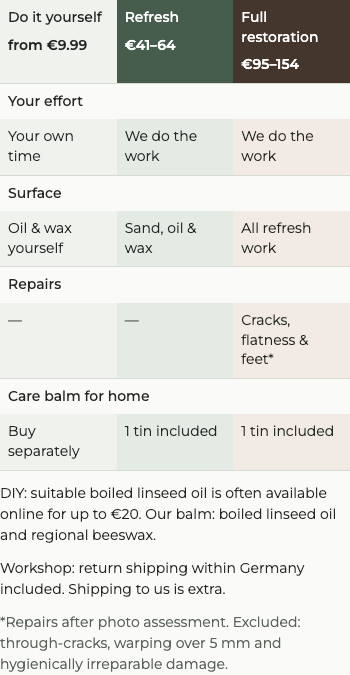
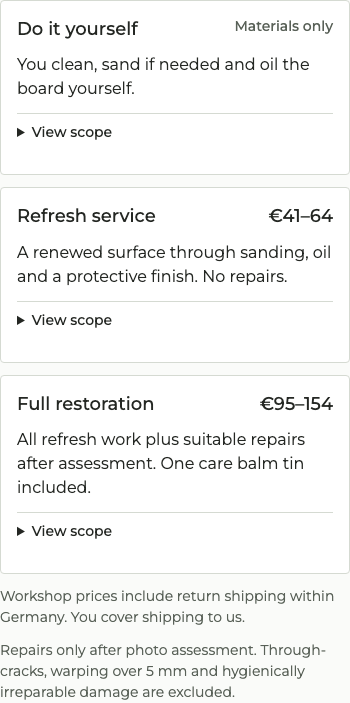
fix: replace service matrix with concise expandable package cards

diff --git a/assets/css/design-system.css b/assets/css/design-system.css
@@ -3,7 +3,7 @@
   @font-face{font-family:EH Sans;src:url('/assets/fonts/design/montserrat-latin.woff2') format('woff2');font-style:normal;font-weight:100 900;font-display:swap}
   :root{
     --font-sans:'EH Sans',Arial,sans-serif;--font-display:var(--font-sans);--font-mono:ui-monospace,monospace;
-    --color-bg:#fafbf9;--color-bg-soft:#f0f2ee;--color-surface:#fff;--color-text:#242723;--color-text-muted:#596158;--color-line:#d5dad2;--color-accent:#44352d;--color-accent-hover:#302620;--color-sage:#465c4c;--color-service-refresh:#e3ebe4;--color-service-full:#f2eae4;
+    --color-bg:#fafbf9;--color-bg-soft:#f0f2ee;--color-surface:#fff;--color-text:#242723;--color-text-muted:#596158;--color-line:#d5dad2;--color-accent:#44352d;--color-accent-hover:#302620;--color-sage:#465c4c;
     --space-1:4px;--space-2:8px;--space-3:12px;--space-4:16px;--space-5:24px;--space-6:32px;--space-7:48px;--space-8:64px;--space-9:96px;--space-10:128px;
     --container-wide:1440px;--container-content:1240px;--container-reading:760px;--gutter:48px;
     --text-meta:14px;--text-body:17px;--text-lead:19px;--text-h1:48px;--text-product-title:38px;--text-h2:32px;--text-h3:22px;
@@ -119,19 +119,20 @@
   .ds-site .consentMedia__placeholder{color:var(--color-text)}
   .ds-site .customProjects button{font-size:var(--text-meta)}
   .ds-site :is(.refurbHero__grid,.refurbStep--media):has([data-ds-duplicate-media]){grid-template-columns:1fr}
-  .ds-site .serviceCompare{margin-block:var(--space-5);max-width:var(--container-reading)}
-  .ds-site .serviceCompare table{display:table;table-layout:fixed;width:100%;overflow:visible;border-collapse:collapse}
-  .ds-site .serviceCompare :is(th,td){width:33.333%;padding:var(--space-2);font-size:var(--text-meta);line-height:1.4;text-align:left;vertical-align:top;overflow-wrap:normal;border-bottom:var(--border);color:var(--color-text)}
-  .ds-site .serviceCompare th[scope=rowgroup]{width:auto;background:transparent;font-weight:500;padding:var(--space-2);border-bottom:0}
-  .ds-site .serviceCompare .serviceCompare__self{background:var(--color-bg-soft)}
-  .ds-site .serviceCompare .serviceCompare__refresh{background:var(--color-service-refresh)}
-  .ds-site .serviceCompare .serviceCompare__full{background:var(--color-service-full)}
-  .ds-site .serviceCompare thead th{font-weight:500}
-  .ds-site .serviceCompare thead .serviceCompare__refresh{background:var(--color-sage);color:#fff}
-  .ds-site .serviceCompare thead .serviceCompare__full{background:var(--color-accent);color:#fff}
-  .ds-site .serviceCompare thead span{display:block;margin-top:var(--space-2);font-size:var(--text-meta);font-weight:600;white-space:nowrap;color:inherit}
-  .ds-site .serviceCompare :is(.serviceCompare__care,.serviceCompare__shipping,.serviceCompare__limits){font-size:var(--text-meta);line-height:1.5;margin:var(--space-3) 0}
-  .ds-site .serviceCompare__limits{color:var(--color-text-muted)}
+  .ds-site .serviceOptions{margin-block:var(--space-5)}
+  .ds-site .serviceOptions__grid{display:grid;grid-template-columns:repeat(3,minmax(0,1fr));gap:var(--space-4)}
+  .ds-site .serviceOption{background:var(--color-surface);border:var(--border);border-radius:var(--radius);padding:var(--space-4);box-shadow:none;min-width:0}
+  .ds-site .serviceOption__head{display:grid;grid-template-columns:minmax(0,1fr) auto;gap:var(--space-4);align-items:start}
+  .ds-site .serviceOption h3{font-size:var(--text-card);line-height:1.35;margin:0}
+  .ds-site .serviceOption__price{font-size:var(--text-card);line-height:1.35;font-weight:500;margin:0;white-space:nowrap}
+  .ds-site [data-service-option=self] .serviceOption__price{font-size:var(--text-meta);color:var(--color-text-muted);white-space:normal;text-align:right;max-width:12ch}
+  .ds-site .serviceOption__intro{font-size:var(--text-control);line-height:1.5;margin:var(--space-3) 0}
+  .ds-site .serviceOption details{border-top:var(--border)}
+  .ds-site .serviceOption summary{font-size:var(--text-meta);min-height:var(--size-target);padding:var(--space-2) 0}
+  .ds-site .serviceOption details :is(p,li){font-size:var(--text-meta);line-height:1.5}
+  .ds-site .serviceOption details ul{padding-left:var(--space-5);margin:var(--space-3) 0}
+  .ds-site .serviceOptions__note{font-size:var(--text-meta);line-height:1.5;max-width:var(--container-reading);margin:var(--space-3) 0;color:var(--color-text-muted)}
+  @media(max-width:1200px){.ds-site .serviceOptions__grid{grid-template-columns:1fr;max-width:var(--container-reading)}}
   .ds-site .serviceCompareDetails{max-width:var(--container-reading);border-top:var(--border);margin-block:var(--space-3);padding-block:0}
   .ds-site .serviceCompareDetails>summary{font-size:var(--text-control);padding:var(--space-3) 0}
   .ds-site .serviceCompareDetails .service-tier{margin:0;padding:var(--space-5) 0;border:0;box-shadow:none;background:transparent;color:var(--color-text)}
@@ -228,6 +229,7 @@
   .ds-site .legalGuarantee img{max-width:520px;height:auto;object-fit:contain}
   @media(max-width:1024px){.ds-site :is(.homepageProductGrid,.landingProductGrid){grid-template-columns:repeat(2,minmax(0,1fr))}.ds-site .productPreview{grid-template-columns:repeat(2,minmax(0,1fr));gap:var(--space-6)}}
   @media(max-width:760px){
+    .ds-site .serviceOptions__grid{grid-template-columns:1fr;gap:var(--space-3)}
     .ds-site .topbar,.ds-site .topbar__inner{min-height:var(--header-mobile-height)}.ds-site .topbar__inner{gap:var(--space-3)}.ds-site .brand__text{font-size:var(--text-card)}.ds-site .brand__logo{width:28px;height:28px}
     .ds-site .ds-hero--immersive{height:auto;min-height:var(--hero-mobile-min)}.ds-site .hero__content{height:auto;min-height:var(--hero-mobile-min);padding-block:var(--space-5)}
     .ds-site .hero h1{font-size:var(--text-product-title)}

diff --git a/schneidebrett-aufbereiten/index.html b/schneidebrett-aufbereiten/index.html
@@ -240,9 +240,6 @@
           </div>
         </article>
         <article>
-          <figure class="refurbVisualTriage__surface" aria-hidden="true">
-            <span></span><span></span><span></span>
-          </figure>
           <div>
             <span>Risse oder offene Stellen</span>
             <strong>Erst einschätzen lassen.</strong>
@@ -275,7 +272,7 @@
           <h3>Auffrischung</h3>
           <p>Für intakte Bretter mit trockener Oberfläche, feinen Messerspuren oder kleineren rauen Bereichen.</p>
           <strong class="refurbQuickCard__price">41–64 €</strong>
-          <p><strong>Bonus:</strong> Eine Dose Pflegebalsam gratis dazu.</p>
+          <p>Keine Dose Pflegebalsam für zu Hause enthalten.</p>
           <dl class="refurbQuickCard__prices">
             <div><dt>bis 30 × 20 cm</dt><dd>41 €</dd></div>
             <div><dt>bis 45 × 30 cm</dt><dd>51 €</dd></div>
@@ -690,17 +687,16 @@
             <li>Wässern zur Faseraufrichtung und feiner Endschliff</li>
             <li>Ölen mit nachweislich lebensmittelechtem Leinölfirnis</li>
             <li>Versiegelung mit Pflegebalsam</li>
-            <li>Eine Dose Pflegebalsam für die spätere Pflege zu Hause</li>
             <li>Rückversand innerhalb Deutschlands</li>
           </ul>
         </div>
-        <div class="tier-not-included"><strong>Nicht enthalten:</strong> Risse, starker Verzug, tiefe Macken und Arbeiten an den Füßen.</div>
+        <div class="tier-not-included"><strong>Nicht enthalten:</strong> Risse, starker Verzug, tiefe Macken, Arbeiten an den Füßen und eine Dose Pflegebalsam für zu Hause.</div>
         <div class="tier-price-table">
           <div class="price-row"><span>Brett bis 30 × 20 cm</span><strong>41 €</strong></div>
           <div class="price-row"><span>Brett bis 45 × 30 cm</span><strong>51 €</strong></div>
           <div class="price-row"><span>Brett über 45 cm Länge</span><strong>64 €</strong></div>
         </div>
-        <div class="tier-note">Festpreis · Rückversand inklusive · den Hinversand trägst du · Pflegebalsam inklusive</div>
+        <div class="tier-note">Festpreis · Rückversand inklusive · den Hinversand trägst du</div>
         <a href="mailto:info@edlehoelzer.de?subject=Fotoeinsch%C3%A4tzung%20Schneidebrett&amp;body=Hallo%20Edle%20H%C3%B6lzer%2C%0A%0Aich%20m%C3%B6chte%20pr%C3%BCfen%20lassen%2C%20ob%20mein%20Schneidebrett%20aufbereitet%20werden%20kann.%0A%0AKurze%20Beschreibung%20des%20Zustands%3A%0A%0AIch%20h%C3%A4nge%20Fotos%20von%20Vorderseite%2C%20R%C3%BCckseite%2C%20Kanten%20und%20Schadstellen%20an.%0A%0AViele%20Gr%C3%BC%C3%9Fe" class="btn btn--emphasis" data-umami-event="refurbishment_inquiry_start" data-umami-event-source-page="schneidebrett-aufbereiten" data-umami-event-position="service-card">Foto zur Einschätzung senden</a>
       </div>
 

diff --git a/en/refurbishment/index.html b/en/refurbishment/index.html
@@ -179,7 +179,7 @@
         <div class="tier-copy">
           <div class="tier-label">Do it yourself</div>
           <h3>DIY with care balm</h3>
-          <p>For boards that look dry or slightly dull, but do not have deep knife marks. Lightly sand the surface with 180 grit, apply our care balm, let it absorb and repeat if needed. A video and step-by-step guide are available on the care page.</p>
+          <p>You clean, lightly sand if needed and oil the board yourself. You need sandpaper if required, linseed oil, a dry cotton cloth and washing-up liquid.</p>
           <div class="tier-price">from 9.99 €</div>
           <div class="tier-price-note">Care balm only, no shipping of the board needed</div>
           <a href="https://www.etsy.com/de/listing/1881802291/holzpflege-set-fur-schneidebretter" class="btn btn--ghost" target="_blank" rel="noopener" data-etsy-link title="You are leaving for the Edle Hölzer Etsy shop" data-umami-event="etsy-klick" data-umami-event-seite="index">Buy care balm</a>
@@ -204,7 +204,7 @@
             <li>Return shipping within Germany</li>
           </ul>
         </div>
-        <div class="tier-not-included"><strong>Not included:</strong> cracks, warping, deep dents, work on feet</div>
+        <div class="tier-not-included"><strong>Not included:</strong> cracks, warping, deep dents, work on feet or a care balm tin for home</div>
         <div class="tier-price-table">
           <div class="price-row"><span>Board up to 30 × 20 cm</span><strong>41 €</strong></div>
           <div class="price-row"><span>Board up to 45 × 30 cm</span><strong>51 €</strong></div>

diff --git a/docs/design-service-review.md b/docs/design-service-review.md
@@ -1,4 +1,4 @@
-# Aufbereitung: Vergleich statt Textpakete
+# Aufbereitung: kompakte Paketkarten
 
 ## Korrektur der Methode
 Der globale CSS-Rollout hatte die technische Typografie vereinheitlicht, aber die funktionale Unterscheidung der Angebote eingeebnet. Automatische Kontrastmessung erkennt keine fehlende Angebots-Hierarchie. Die frühere Aussage „finalisiert“ war deshalb als visuelle Abnahme zu weitgehend.
@@ -6,17 +6,18 @@ Der globale CSS-Rollout hatte die technische Typografie vereinheitlicht, aber di
 Künftig wird je Seitentyp zuerst die konkrete Nutzerentscheidung festgelegt. Danach werden Inhalte nach dieser Entscheidung geordnet und eine reale mobile Referenzkomponente visuell geprüft. Erst nach dieser Prüfung folgt die Übertragung auf ähnliche Seiten. Technische Tests bleiben ein Sicherheitsnetz, kein Ersatz für die gestalterische Abnahme. Der Nutzer muss nicht 148 Seiten einzeln kontrollieren; er beurteilt die wenigen Referenzmuster, wir kontrollieren deren Übertragung.
 
 ## Umsetzung dieser Referenz
-- Gemeinsamer Vergleich statt drei langer, vertikal gestapelter Beschreibungen.
-- Drei farblich getrennte Spalten: Selbstpflege, Auffrischung, Generalüberholung.
-- Gleiche Kriterien: eigene Arbeitszeit, Oberflächenarbeit, zusätzliche Schadensarbeiten, Pflegebalsam.
-- Höchstes Paket enthält sichtbar die Auffrischung plus zusätzliche Arbeiten nach Prüfung.
-- Bestehende Werkstattpreise unverändert: 41/51/64 und 95/124/154 Euro. Balsam ab 9,99 Euro; Leinölfirnis-Orientierung bis 20 Euro entsprechend Nutzerangabe.
-- Liefer-/Versandbedingungen und Ausschlüsse bleiben sichtbar. Vollständige Alttexte, Preisstaffeln und Leistungen sind in nativen Details weiterhin erreichbar, auch ohne JS.
-- DE und EN verwenden dieselbe Komponente. Auf 390px ist die eigentliche Vergleichstabelle rund 471px hoch; einschließlich Hinweisen rund 675px.
+- Die zuvor erstellte Farbtabelle ist nach Nutzerfeedback verworfen, nicht weiter ausgebaut.
+- Drei neutrale Paketkarten mit identischer Reihenfolge: Name/Preis, kurze Einordnung, aufklappbares Leistungsspektrum. Desktop nebeneinander, Mobile und Tablet untereinander.
+- Apple-Referenzen liefern das Prinzip kurzer Leistungsstufen, nicht deren Farben, Markenelemente oder exakte Layoutmaße.
+- Selbst machen: eigene Arbeitszeit; Schleifpapier nach Bedarf, Leinöl, trockenes Baumwolltuch und Spülmittel. Kein vorgeschriebener Kauf unseres Balsams.
+- Auffrischung: Oberflächenarbeit ohne Reparaturen und ohne Dose Pflegebalsam für zu Hause. Aufgebrachtes Finish ist von einer mitgelieferten Dose unterschieden.
+- Generalüberholung: Auffrischung plus geeignete zusätzliche Arbeiten nach Prüfung; nur hier eine Dose Pflegebalsam für zu Hause inklusive.
+- Bestehende Werkstattpreise unverändert: 41/51/64 und 95/124/154 Euro. Die falschen Gratis-Balsam-Angaben wurden auch in den ursprünglichen DE-Beschreibungen korrigiert.
+- Riss-Simulation aus dem HTML entfernt. Versandbedingungen und Grenzen bleiben sichtbar, Details ohne JS erreichbar.
 - Während der Vergleich im sichtbaren Bereich steht, werden feste Kontaktleiste, WhatsApp-Float und Nach-oben-Button ausgeblendet. Sie dürfen keine Leistungen oder Hinweise überdecken.
 
 ## Prüfung und Grenzen
-Fünf Breiten 375/390/430/768/1440px, jeweils DE/EN. Drei unterschiedliche Headerfarben, kein abgeschnittener Zelltext, Enter-Bedienung und No-JS-Fallback geprüft. Zusätzlicher Kontrast-/Überlaufscan der beiden Seiten. Maschinenlesbare Messwerte: `design-service-comparison-qa.json`. Screenshots: `design-service-screenshots/`.
+Fünf Breiten 375/390/430/768/1440px, jeweils DE/EN. Drei Karten ohne Tabelle, keine abgeschnittenen Überschriften oder Preise, Enter-Bedienung und No-JS-Fallback. Ein eigener Inhaltstest verhindert erneut eine mitgelieferte Dose beim Auffrischungsservice. Zusätzlicher Kontrast-/Überlaufscan der beiden Seiten. Messwerte: `design-service-comparison-qa.json`. Screenshots: `design-service-screenshots/`.
 
 Eine simulierte iPhone-14-Viewportgröße ist kein Test auf echter iOS-Hardware. Keine gemessene Conversionsteigerung wird behauptet. Keine Veröffentlichung oder Shopänderung.
 

diff --git a/docs/design-system-migration-report.md b/docs/design-system-migration-report.md
@@ -2,7 +2,7 @@
 
 Stand: 2. November 2026. Branch `codex/design-system-zeitraum-inspired`, Inhaltsbasis main `f772f7a`. 148 gestaltete Seiten, darunter sämtliche 145 Sitemap-URLs. Keine Produktionsveröffentlichung, keine Shopaktivierung.
 
-Nachtrag zur visuellen Abnahme: Die flächendeckende Stilübertragung war keine vollständige UX-Abnahme. Nach Nutzerfeedback ist die Aufbereitung als kompakte, farblich abgestufte Vergleichskomponente neu aufgebaut. Vorgehen und gezielte Prüfungen stehen in `design-service-review.md`; weitere Seitentypen sind künftig anhand konkreter Nutzerentscheidungen statt nur globaler CSS-Merkmale zu beurteilen.
+Nachtrag zur visuellen Abnahme: Die flächendeckende Stilübertragung war keine vollständige UX-Abnahme. Die zwischenzeitliche Farbtabelle der Aufbereitung wurde verworfen. Aktuell werden drei neutrale, kompakte Paketkarten mit aufklappbaren Leistungen verwendet; nur die Generalüberholung enthält eine Dose Pflegebalsam. Vorgehen und Prüfungen stehen in `design-service-review.md`; weitere Seitentypen sind anhand konkreter Nutzerentscheidungen statt nur globaler CSS-Merkmale zu beurteilen.
 
 ## 1. Designprinzipien
 Produkt zuerst, klare nächste Entscheidung, ergänzende Information progressiv. Ordnung und echtes Holz statt dekorativer Karten. Der Nutzer hat die Grundrichtung der Referenzen bestätigt.
